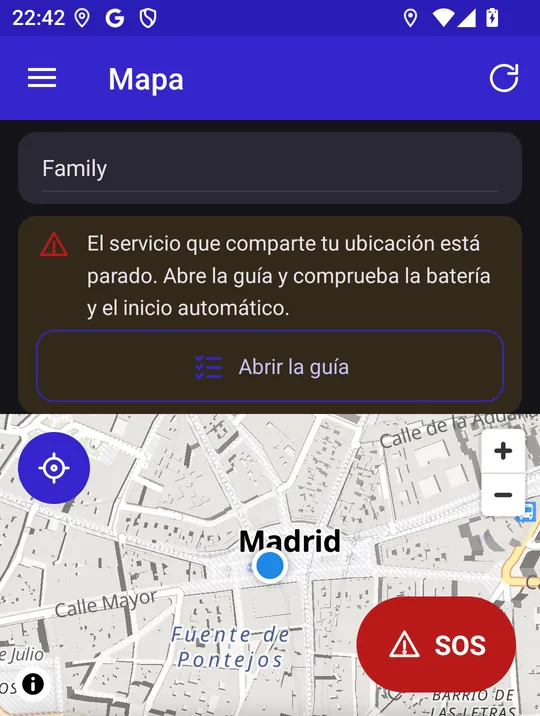
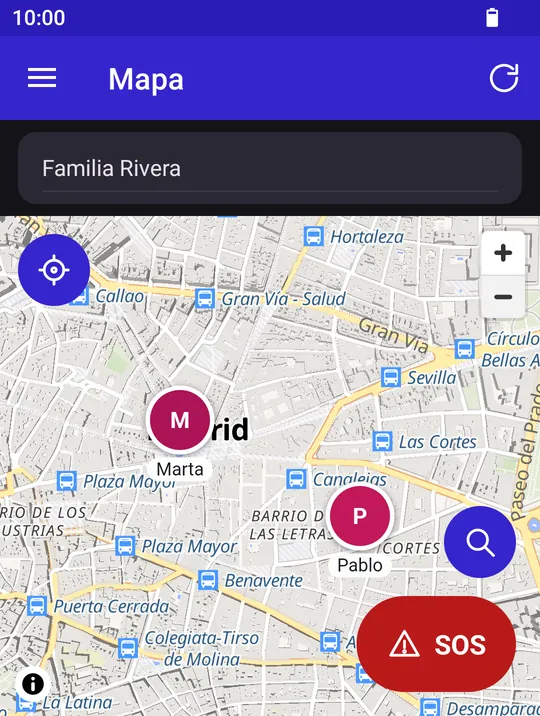
Family Together: captura nueva del mapa (datos inventados, sin avisos) y guia al dia (lupa para buscar a una persona, tu marca donde esta tu movil, inicio automatico sin marcas)

diff --git a/wordpress/soporte/familytogether.html b/wordpress/soporte/familytogether.html
@@ -44,7 +44,7 @@
 <!-- wp:group {"className":"soc-grid","style":{"spacing":{"blockGap":"20px"}},"layout":{"type":"grid","minimumColumnWidth":"9rem"}} -->
 <div class="wp-block-group soc-grid">
 <!-- wp:image {"sizeSlug":"full","linkDestination":"none","style":{"border":{"radius":"12px","width":"1px","color":"#e2e8f0"}}} -->
-<figure class="wp-block-image size-full has-custom-border"><img src="https://socraticweb0.wordpress.com/wp-content/uploads/2026/09/familytogether-movil-1.webp" alt="Captura de Family Together" class="has-border-color" style="border-color:#e2e8f0;border-width:1px;border-radius:12px"/></figure>
+<figure class="wp-block-image size-full has-custom-border"><img src="https://socraticweb0.wordpress.com/wp-content/uploads/2026/09/familytogether-movil-1-1.webp" alt="Captura de Family Together" class="has-border-color" style="border-color:#e2e8f0;border-width:1px;border-radius:12px"/></figure>
 <!-- /wp:image -->
 </div>
 <!-- /wp:group -->
@@ -62,7 +62,7 @@
 <li><strong>Permitir siempre</strong> (<strong>Permitir todo el tiempo</strong>): Android no lo ofrece en un diálogo; se abren los ajustes y ahí eliges Permisos &gt; Ubicación &gt; Permitir todo el tiempo. Sin esto tu grupo solo te ve con la aplicación abierta.</li>
 <li><strong>Notificaciones</strong> (<strong>Permitir notificaciones</strong>): para los SOS, los avisos de zonas y las solicitudes para unirse. Mientras compartes, Android muestra además una notificación fija, «Compartiendo tu ubicación».</li>
 <li><strong>Sin restricciones de batería</strong> (<strong>Excluir del ahorro de batería</strong>): si Android duerme la aplicación, tu grupo deja de verte y los avisos llegan tarde.</li>
-<li><strong>Inicio automático</strong> (<strong>Abrir los ajustes del fabricante</strong>, <strong>Opcional</strong>): solo aparece en los móviles de las marcas que lo necesitan.</li>
+<li><strong>Inicio automático</strong> (<strong>Abrir los ajustes del fabricante</strong>, <strong>Opcional</strong>): dónde permitir que la app se inicie sola si tu móvil trae su propio gestor de batería o de inicio automático.</li>
 <li><strong>Listo</strong>: pulsa <strong>Terminar</strong>. Puedes volver a la guía cuando quieras desde el menú.</li>
 </ul>
 </li>
@@ -104,8 +104,8 @@
 <ul class="wp-block-list">
 <li><strong>Elige un grupo</strong>: el selector de arriba, si estás en más de uno.</li>
 <li><strong>Actualizar</strong> (flechas, arriba a la derecha): vuelve a pedir las posiciones.</li>
-<li>Al abrir, el mapa se centra en tu posición (punto azul con su precisión). El botón de centrar (<strong>Ver a todos</strong>) encuadra a todos los miembros del grupo.</li>
-<li>Debajo del mapa, la lista del grupo: cada miembro con su avatar o sus iniciales y «hace N min · batería N %», <strong>En pausa</strong> (con la hora de fin, si la tiene) o <strong>Sin posición todavía</strong>. Tocar un miembro centra el mapa en él.</li>
+<li>Al abrir, el mapa se centra en tu posición: tu propia marca (tu foto o tu inicial con tu nombre) va donde está tu móvil ahora. El botón de centrar (<strong>Ver a todos</strong>) encuadra a todos los miembros del grupo.</li>
+<li>El mapa ocupa toda la pantalla. <strong>Buscar a una persona</strong> (la lupa, abajo a la derecha, encima del SOS) abre la lista del grupo: cada miembro con su avatar o sus iniciales y «hace N min · batería N %», <strong>En pausa</strong> (con la hora de fin, si la tiene) o <strong>Sin posición todavía</strong>. Al elegir a alguien la lista se cierra y el mapa se centra en esa persona; desde la lista también puedes <strong>Ver a todos</strong>. Atrás, o tocar fuera, la cierra.</li>
 <li><strong>SOS</strong> (botón rojo): «Enviar un SOS a tus grupos».</li>
 <li>Avisos que pueden aparecer arriba, con su botón:<ul>
 <li>«No se está compartiendo tu ubicación…», «Tu grupo solo te ve con la app abierta…» o «El servicio que comparte tu ubicación está parado…»: <strong>Abrir la guía</strong> y completa el paso pendiente.</li>

diff --git a/wordpress/en/support/familytogether.html b/wordpress/en/support/familytogether.html
@@ -44,7 +44,7 @@
 <!-- wp:group {"className":"soc-grid","style":{"spacing":{"blockGap":"20px"}},"layout":{"type":"grid","minimumColumnWidth":"9rem"}} -->
 <div class="wp-block-group soc-grid">
 <!-- wp:image {"sizeSlug":"full","linkDestination":"none","style":{"border":{"radius":"12px","width":"1px","color":"#e2e8f0"}}} -->
-<figure class="wp-block-image size-full has-custom-border"><img src="https://socraticweb0.wordpress.com/wp-content/uploads/2026/09/familytogether-movil-1.webp" alt="Screenshot of Family Together" class="has-border-color" style="border-color:#e2e8f0;border-width:1px;border-radius:12px"/></figure>
+<figure class="wp-block-image size-full has-custom-border"><img src="https://socraticweb0.wordpress.com/wp-content/uploads/2026/09/familytogether-movil-1-1.webp" alt="Screenshot of Family Together" class="has-border-color" style="border-color:#e2e8f0;border-width:1px;border-radius:12px"/></figure>
 <!-- /wp:image -->
 </div>
 <!-- /wp:group -->
@@ -62,7 +62,7 @@
 <li><strong>Allow all the time</strong> (<strong>Allow all the time</strong>): Android does not offer it in a dialog; Settings opens and there you choose Permissions &gt; Location &gt; Allow all the time. Without it your group only sees you while the app is open.</li>
 <li><strong>Notifications</strong> (<strong>Allow notifications</strong>): for SOS alerts, zone alerts and join requests. While sharing, Android also shows a persistent notification, "Sharing your location".</li>
 <li><strong>No battery restrictions</strong> (<strong>Exclude from battery optimisation</strong>): if Android puts the app to sleep, your group stops seeing you and alerts arrive late.</li>
-<li><strong>Autostart</strong> (<strong>Open the manufacturer's settings</strong>, <strong>Optional</strong>): only appears on phones from brands that need it.</li>
+<li><strong>Autostart</strong> (<strong>Open the manufacturer's settings</strong>, <strong>Optional</strong>): where to let the app start on its own if your phone comes with its own battery or autostart manager.</li>
 <li><strong>All set</strong>: tap <strong>Finish</strong>. You can come back to the guide any time from the menu.</li>
 </ul>
 </li>
@@ -104,8 +104,8 @@
 <ul class="wp-block-list">
 <li><strong>Choose a group</strong>: the selector at the top, if you are in more than one.</li>
 <li><strong>Refresh</strong> (arrows, top right): asks for the positions again.</li>
-<li>When it opens, the map centres on your position (blue dot with its accuracy). The centre button (<strong>Show everyone</strong>) fits all the group's members in view.</li>
-<li>Below the map, the group list: each member with their avatar or initials and "N min ago · battery N%", <strong>Paused</strong> (with the end time, if any) or <strong>No position yet</strong>. Tapping a member centres the map on them.</li>
+<li>When it opens, the map centres on your position: your own marker (your photo or initial with your name) is where your phone is right now. The centre button (<strong>Show everyone</strong>) fits all the group's members in view.</li>
+<li>The map fills the screen. <strong>Find a person</strong> (the magnifying glass, bottom right, above SOS) opens the group list: each member with their avatar or initials and "N min ago · battery N%", <strong>Paused</strong> (with the end time, if any) or <strong>No position yet</strong>. Choosing someone closes the list and centres the map on them; from the list you can also <strong>Show everyone</strong>. Back, or tapping outside, closes it.</li>
 <li><strong>SOS</strong> (red button): "Send an SOS to your groups".</li>
 <li>Banners that may appear at the top, with their button:<ul>
 <li>"Your location is not being shared…", "Your group only sees you while the app is open…" or "The service that shares your location is stopped…": <strong>Open the guide</strong> and complete the pending step.</li>

diff --git a/sitio/soporte/familytogether.html b/sitio/soporte/familytogether.html
@@ -65,7 +65,7 @@
 <li><strong>Permitir siempre</strong> (<strong>Permitir todo el tiempo</strong>): Android no lo ofrece en un diálogo; se abren los ajustes y ahí eliges Permisos &gt; Ubicación &gt; Permitir todo el tiempo. Sin esto tu grupo solo te ve con la aplicación abierta.</li>
 <li><strong>Notificaciones</strong> (<strong>Permitir notificaciones</strong>): para los SOS, los avisos de zonas y las solicitudes para unirse. Mientras compartes, Android muestra además una notificación fija, «Compartiendo tu ubicación».</li>
 <li><strong>Sin restricciones de batería</strong> (<strong>Excluir del ahorro de batería</strong>): si Android duerme la aplicación, tu grupo deja de verte y los avisos llegan tarde.</li>
-<li><strong>Inicio automático</strong> (<strong>Abrir los ajustes del fabricante</strong>, <strong>Opcional</strong>): solo aparece en los móviles de las marcas que lo necesitan.</li>
+<li><strong>Inicio automático</strong> (<strong>Abrir los ajustes del fabricante</strong>, <strong>Opcional</strong>): dónde permitir que la app se inicie sola si tu móvil trae su propio gestor de batería o de inicio automático.</li>
 <li><strong>Listo</strong>: pulsa <strong>Terminar</strong>. Puedes volver a la guía cuando quieras desde el menú.</li>
 </ul>
 </li>
@@ -95,8 +95,8 @@
 <ul class="wp-block-list">
 <li><strong>Elige un grupo</strong>: el selector de arriba, si estás en más de uno.</li>
 <li><strong>Actualizar</strong> (flechas, arriba a la derecha): vuelve a pedir las posiciones.</li>
-<li>Al abrir, el mapa se centra en tu posición (punto azul con su precisión). El botón de centrar (<strong>Ver a todos</strong>) encuadra a todos los miembros del grupo.</li>
-<li>Debajo del mapa, la lista del grupo: cada miembro con su avatar o sus iniciales y «hace N min · batería N %», <strong>En pausa</strong> (con la hora de fin, si la tiene) o <strong>Sin posición todavía</strong>. Tocar un miembro centra el mapa en él.</li>
+<li>Al abrir, el mapa se centra en tu posición: tu propia marca (tu foto o tu inicial con tu nombre) va donde está tu móvil ahora. El botón de centrar (<strong>Ver a todos</strong>) encuadra a todos los miembros del grupo.</li>
+<li>El mapa ocupa toda la pantalla. <strong>Buscar a una persona</strong> (la lupa, abajo a la derecha, encima del SOS) abre la lista del grupo: cada miembro con su avatar o sus iniciales y «hace N min · batería N %», <strong>En pausa</strong> (con la hora de fin, si la tiene) o <strong>Sin posición todavía</strong>. Al elegir a alguien la lista se cierra y el mapa se centra en esa persona; desde la lista también puedes <strong>Ver a todos</strong>. Atrás, o tocar fuera, la cierra.</li>
 <li><strong>SOS</strong> (botón rojo): «Enviar un SOS a tus grupos».</li>
 <li>Avisos que pueden aparecer arriba, con su botón:<ul>
 <li>«No se está compartiendo tu ubicación…», «Tu grupo solo te ve con la app abierta…» o «El servicio que comparte tu ubicación está parado…»: <strong>Abrir la guía</strong> y completa el paso pendiente.</li>

diff --git a/sitio/en/soporte/familytogether.html b/sitio/en/soporte/familytogether.html
@@ -65,7 +65,7 @@
 <li><strong>Allow all the time</strong> (<strong>Allow all the time</strong>): Android does not offer it in a dialog; Settings opens and there you choose Permissions &gt; Location &gt; Allow all the time. Without it your group only sees you while the app is open.</li>
 <li><strong>Notifications</strong> (<strong>Allow notifications</strong>): for SOS alerts, zone alerts and join requests. While sharing, Android also shows a persistent notification, "Sharing your location".</li>
 <li><strong>No battery restrictions</strong> (<strong>Exclude from battery optimisation</strong>): if Android puts the app to sleep, your group stops seeing you and alerts arrive late.</li>
-<li><strong>Autostart</strong> (<strong>Open the manufacturer's settings</strong>, <strong>Optional</strong>): only appears on phones from brands that need it.</li>
+<li><strong>Autostart</strong> (<strong>Open the manufacturer's settings</strong>, <strong>Optional</strong>): where to let the app start on its own if your phone comes with its own battery or autostart manager.</li>
 <li><strong>All set</strong>: tap <strong>Finish</strong>. You can come back to the guide any time from the menu.</li>
 </ul>
 </li>
@@ -95,8 +95,8 @@
 <ul class="wp-block-list">
 <li><strong>Choose a group</strong>: the selector at the top, if you are in more than one.</li>
 <li><strong>Refresh</strong> (arrows, top right): asks for the positions again.</li>
-<li>When it opens, the map centres on your position (blue dot with its accuracy). The centre button (<strong>Show everyone</strong>) fits all the group's members in view.</li>
-<li>Below the map, the group list: each member with their avatar or initials and "N min ago · battery N%", <strong>Paused</strong> (with the end time, if any) or <strong>No position yet</strong>. Tapping a member centres the map on them.</li>
+<li>When it opens, the map centres on your position: your own marker (your photo or initial with your name) is where your phone is right now. The centre button (<strong>Show everyone</strong>) fits all the group's members in view.</li>
+<li>The map fills the screen. <strong>Find a person</strong> (the magnifying glass, bottom right, above SOS) opens the group list: each member with their avatar or initials and "N min ago · battery N%", <strong>Paused</strong> (with the end time, if any) or <strong>No position yet</strong>. Choosing someone closes the list and centres the map on them; from the list you can also <strong>Show everyone</strong>. Back, or tapping outside, closes it.</li>
 <li><strong>SOS</strong> (red button): "Send an SOS to your groups".</li>
 <li>Banners that may appear at the top, with their button:<ul>
 <li>"Your location is not being shared…", "Your group only sees you while the app is open…" or "The service that shares your location is stopped…": <strong>Open the guide</strong> and complete the pending step.</li>

diff --git a/wordpress/en/apps/familytogether.html b/wordpress/en/apps/familytogether.html
@@ -172,7 +172,7 @@
 <!-- wp:group {"className":"soc-grid","style":{"spacing":{"blockGap":"20px"}},"layout":{"type":"grid","minimumColumnWidth":"11rem"}} -->
 <div class="wp-block-group soc-grid">
 <!-- wp:image {"sizeSlug":"full","linkDestination":"none","style":{"border":{"radius":"12px","width":"1px","color":"#e2e8f0"}}} -->
-<figure class="wp-block-image size-full has-custom-border"><img src="https://socraticweb0.wordpress.com/wp-content/uploads/2026/09/familytogether-movil-1.webp" alt="Screenshot of Family Together" class="has-border-color" style="border-color:#e2e8f0;border-width:1px;border-radius:12px"/></figure>
+<figure class="wp-block-image size-full has-custom-border"><img src="https://socraticweb0.wordpress.com/wp-content/uploads/2026/09/familytogether-movil-1-1.webp" alt="Screenshot of Family Together" class="has-border-color" style="border-color:#e2e8f0;border-width:1px;border-radius:12px"/></figure>
 <!-- /wp:image -->
 </div>
 <!-- /wp:group -->

diff --git a/wordpress/aplicaciones/familytogether.html b/wordpress/aplicaciones/familytogether.html
@@ -172,7 +172,7 @@
 <!-- wp:group {"className":"soc-grid","style":{"spacing":{"blockGap":"20px"}},"layout":{"type":"grid","minimumColumnWidth":"11rem"}} -->
 <div class="wp-block-group soc-grid">
 <!-- wp:image {"sizeSlug":"full","linkDestination":"none","style":{"border":{"radius":"12px","width":"1px","color":"#e2e8f0"}}} -->
-<figure class="wp-block-image size-full has-custom-border"><img src="https://socraticweb0.wordpress.com/wp-content/uploads/2026/09/familytogether-movil-1.webp" alt="Captura de Family Together" class="has-border-color" style="border-color:#e2e8f0;border-width:1px;border-radius:12px"/></figure>
+<figure class="wp-block-image size-full has-custom-border"><img src="https://socraticweb0.wordpress.com/wp-content/uploads/2026/09/familytogether-movil-1-1.webp" alt="Captura de Family Together" class="has-border-color" style="border-color:#e2e8f0;border-width:1px;border-radius:12px"/></figure>
 <!-- /wp:image -->
 </div>
 <!-- /wp:group -->

diff --git a/contenido/apps/FamilyTogether.md b/contenido/apps/FamilyTogether.md
@@ -37,7 +37,7 @@ No hace falta cuenta ni contraseña: al abrirla por primera vez solo eliges el n
    - **Permitir siempre** (**Permitir todo el tiempo**): Android no lo ofrece en un diálogo; se abren los ajustes y ahí eliges Permisos > Ubicación > Permitir todo el tiempo. Sin esto tu grupo solo te ve con la aplicación abierta.
    - **Notificaciones** (**Permitir notificaciones**): para los SOS, los avisos de zonas y las solicitudes para unirse. Mientras compartes, Android muestra además una notificación fija, «Compartiendo tu ubicación».
    - **Sin restricciones de batería** (**Excluir del ahorro de batería**): si Android duerme la aplicación, tu grupo deja de verte y los avisos llegan tarde.
-   - **Inicio automático** (**Abrir los ajustes del fabricante**, **Opcional**): solo aparece en los móviles de las marcas que lo necesitan.
+   - **Inicio automático** (**Abrir los ajustes del fabricante**, **Opcional**): dónde permitir que la app se inicie sola si tu móvil trae su propio gestor de batería o de inicio automático.
    - **Listo**: pulsa **Terminar**. Puedes volver a la guía cuando quieras desde el menú.
 4. Crea un grupo o únete a uno desde **Grupos**.
 
@@ -56,8 +56,8 @@ No hace falta cuenta ni contraseña: al abrirla por primera vez solo eliges el n
 ### Pantalla Mapa
 - **Elige un grupo**: el selector de arriba, si estás en más de uno.
 - **Actualizar** (flechas, arriba a la derecha): vuelve a pedir las posiciones.
-- Al abrir, el mapa se centra en tu posición (punto azul con su precisión). El botón de centrar (**Ver a todos**) encuadra a todos los miembros del grupo.
-- Debajo del mapa, la lista del grupo: cada miembro con su avatar o sus iniciales y «hace N min · batería N %», **En pausa** (con la hora de fin, si la tiene) o **Sin posición todavía**. Tocar un miembro centra el mapa en él.
+- Al abrir, el mapa se centra en tu posición: tu propia marca (tu foto o tu inicial con tu nombre) va donde está tu móvil ahora. El botón de centrar (**Ver a todos**) encuadra a todos los miembros del grupo.
+- El mapa ocupa toda la pantalla. **Buscar a una persona** (la lupa, abajo a la derecha, encima del SOS) abre la lista del grupo: cada miembro con su avatar o sus iniciales y «hace N min · batería N %», **En pausa** (con la hora de fin, si la tiene) o **Sin posición todavía**. Al elegir a alguien la lista se cierra y el mapa se centra en esa persona; desde la lista también puedes **Ver a todos**. Atrás, o tocar fuera, la cierra.
 - **SOS** (botón rojo): «Enviar un SOS a tus grupos».
 - Avisos que pueden aparecer arriba, con su botón:
   - «No se está compartiendo tu ubicación…», «Tu grupo solo te ve con la app abierta…» o «El servicio que comparte tu ubicación está parado…»: **Abrir la guía** y completa el paso pendiente.

diff --git a/contenido/en/apps/FamilyTogether.md b/contenido/en/apps/FamilyTogether.md
@@ -37,7 +37,7 @@ No account or password is needed: the first time you open it you only choose the
    - **Allow all the time** (**Allow all the time**): Android does not offer it in a dialog; Settings opens and there you choose Permissions > Location > Allow all the time. Without it your group only sees you while the app is open.
    - **Notifications** (**Allow notifications**): for SOS alerts, zone alerts and join requests. While sharing, Android also shows a persistent notification, "Sharing your location".
    - **No battery restrictions** (**Exclude from battery optimisation**): if Android puts the app to sleep, your group stops seeing you and alerts arrive late.
-   - **Autostart** (**Open the manufacturer's settings**, **Optional**): only appears on phones from brands that need it.
+   - **Autostart** (**Open the manufacturer's settings**, **Optional**): where to let the app start on its own if your phone comes with its own battery or autostart manager.
    - **All set**: tap **Finish**. You can come back to the guide any time from the menu.
 4. Create a group or join one from **Groups**.
 
@@ -56,8 +56,8 @@ No account or password is needed: the first time you open it you only choose the
 ### Map screen
 - **Choose a group**: the selector at the top, if you are in more than one.
 - **Refresh** (arrows, top right): asks for the positions again.
-- When it opens, the map centres on your position (blue dot with its accuracy). The centre button (**Show everyone**) fits all the group's members in view.
-- Below the map, the group list: each member with their avatar or initials and "N min ago · battery N%", **Paused** (with the end time, if any) or **No position yet**. Tapping a member centres the map on them.
+- When it opens, the map centres on your position: your own marker (your photo or initial with your name) is where your phone is right now. The centre button (**Show everyone**) fits all the group's members in view.
+- The map fills the screen. **Find a person** (the magnifying glass, bottom right, above SOS) opens the group list: each member with their avatar or initials and "N min ago · battery N%", **Paused** (with the end time, if any) or **No position yet**. Choosing someone closes the list and centres the map on them; from the list you can also **Show everyone**. Back, or tapping outside, closes it.
 - **SOS** (red button): "Send an SOS to your groups".
 - Banners that may appear at the top, with their button:
   - "Your location is not being shared…", "Your group only sees you while the app is open…" or "The service that shares your location is stopped…": **Open the guide** and complete the pending step.
